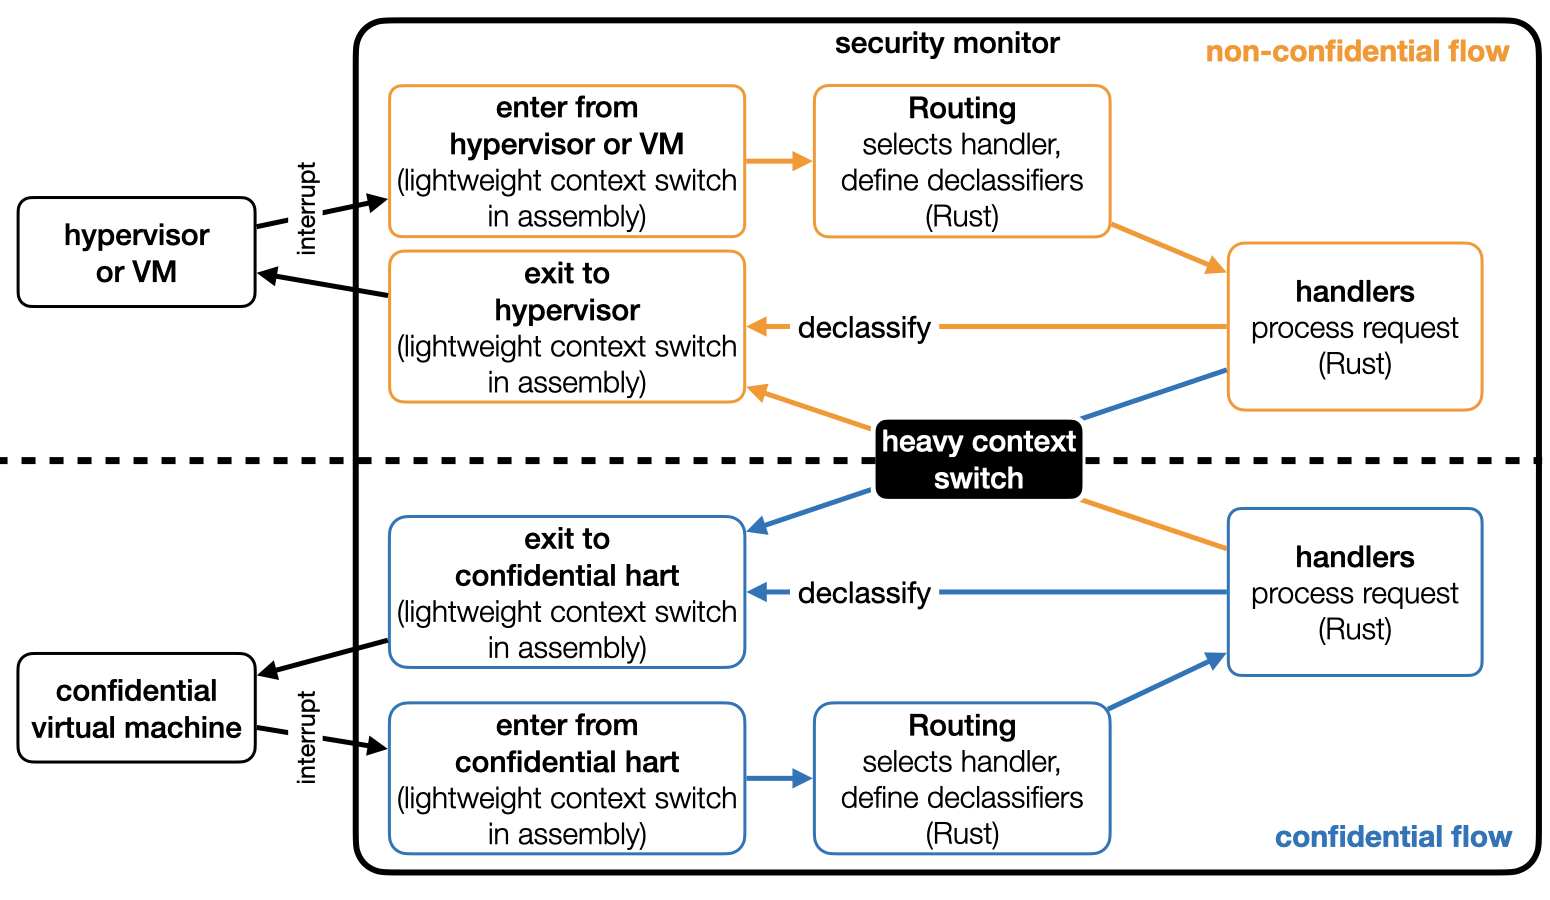
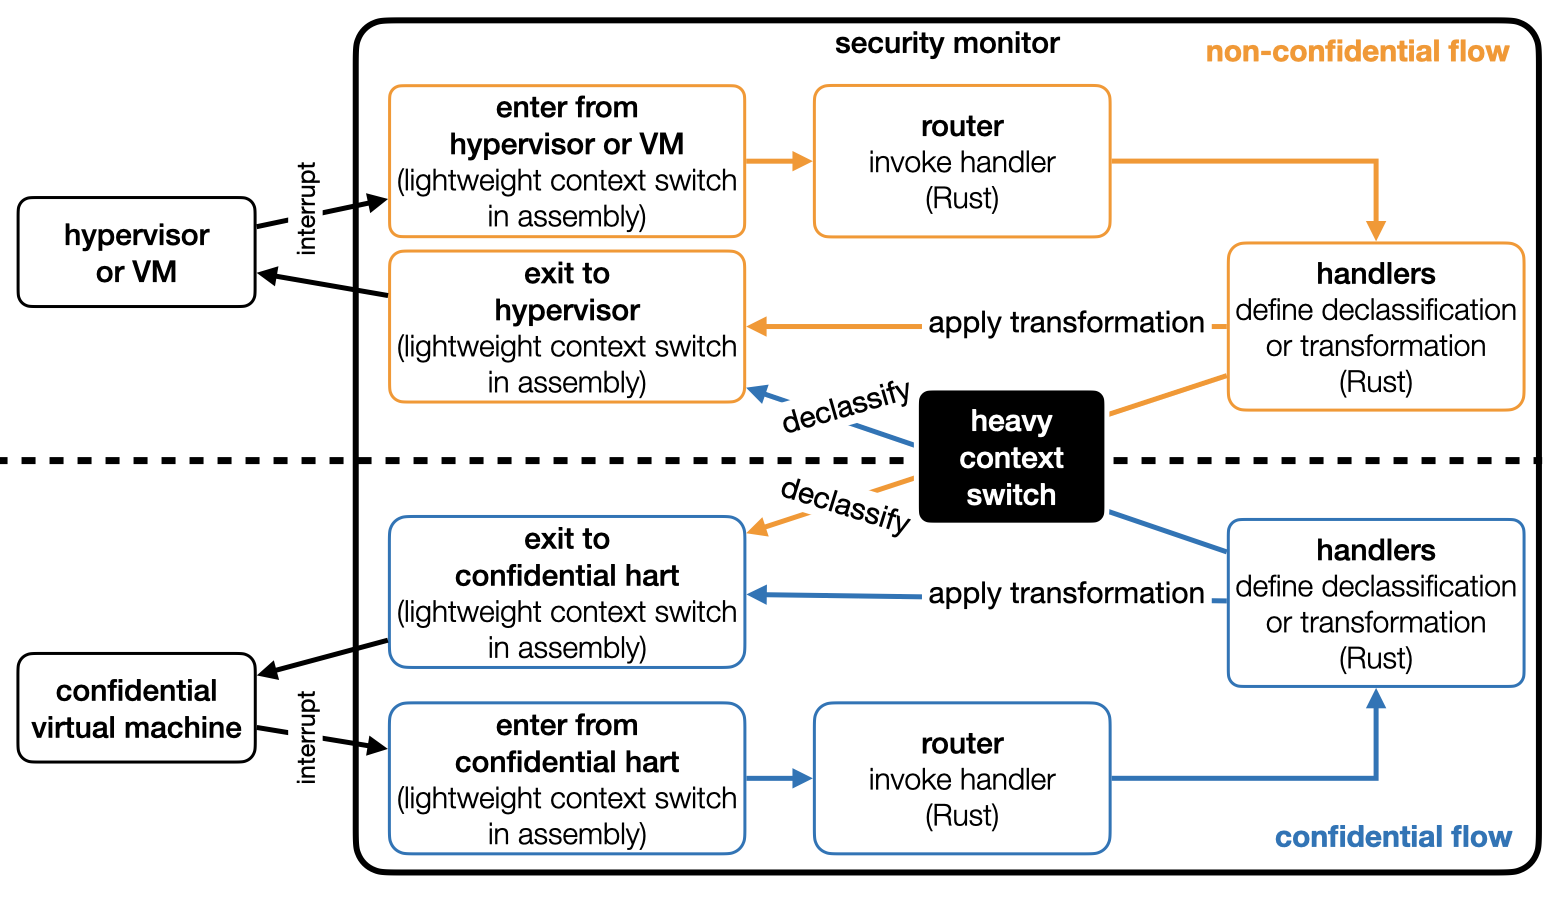
added documentation in README

diff --git a/security-monitor/README.md b/security-monitor/README.md
@@ -4,7 +4,7 @@ Our formal proof efforts focus on the security monitor implementation. The secur
 ## Implementation
 <img src="../.github/fsm.png" align="center" width="60%"> 
 
-Above Figure presents the finite state machine (FSM) implemented by the security monitor. [Non-confidential Flow](src/non_confidential_flow) implements the non-confidential part of the FSM (orange) and [Confidential Flow](src/confidential_flow) implements the confidential part of the FSM (blue). Heavy context switch occures during ["stealing"](https://github.com/IBM/ACE-RISCV/blob/bfd1e84d44075c45b7bd094f9750b3fdecbad4a5/security-monitor/src/core/control_data/confidential_vm.rs#L64) and ["returning"](https://github.com/IBM/ACE-RISCV/blob/bfd1e84d44075c45b7bd094f9750b3fdecbad4a5/security-monitor/src/core/control_data/confidential_vm.rs#L96) a confidential hart from/to a confidential VM.
+Above Figure presents the finite state machine (FSM) implemented by the security monitor. [Non-confidential Flow](src/non_confidential_flow) (orange) implements part of the security monitor that responds to hypervisor requests. [Confidential Flow](src/confidential_flow) (blue) implements part of the security monitor that response to confidential VM requests. Heavy context switch, i.e., switch between security domains, occures during ["stealing"](https://github.com/IBM/ACE-RISCV/blob/main/security-monitor/src/core/control_data/confidential_vm.rs) and ["returning"](https://github.com/IBM/ACE-RISCV/blob/main/security-monitor/src/core/control_data/confidential_vm.rs) a confidential hart from/to a confidential VM.
 
 ## Dependencies
 To speed up the implementation, we used OpenSBI as firmware. OpenSBI runs together with the security monitor in the M-mode. The ultimate goal is to deprivilege it or re-implement it in Rust and then formally verify. Our principle is to rely on as minimal Rust dependencies as possible.

diff --git a/security-monitor/src/README.md b/security-monitor/src/README.md
@@ -1,0 +1,13 @@
+# Security Monitor Source Code
+The source code is structured accordingly to the finite state machine (Figure below). During the boot of the platform, boot firmware calls the [initialization procedure](core/initialization). After that, the security monitor only executes on explicit calls from hypervisor or confidential harts.
+
+<img src="../.github/fsm.png" align="center" width="60%"> 
+
+## Non-confidential flow
+Hypervisor calls traps to the [assembly context switch](non_confidential_flow/lightweight_context_switch/enter_from_hypervisor_or_vm.S) in the non-confidential part of the finite state machine (FSM). [The finite state machine](non_confidential_flow/finite_state_machine.rs) implements the FSM that invokes [handlers](non_confidential_flow/handlers/).
+
+## Confidential flow
+Confidential hart calls trap to the [assembly context switch](confidential_flow/lightweight_context_switch/enter_from_confidential_hart.S) in the confidential part of the FSM. [The finite state machine](confidential_flow/finite_state_machine.rs) implements the router that invokes [handlers](confidential_flow/handlers/).
+
+## Core
+Security monitor functionality that manages confidential VMs and reconfigures hardware components is in [core](core/). 
